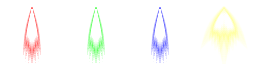
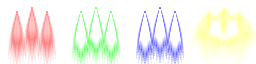
update shot image

diff --git a/assets/raw/shotbullet.html b/assets/raw/shotbullet.html
@@ -13,7 +13,7 @@ tm.main(function() {
         if (rad <= 0) return;
         canvas
             .setFillStyle(tm.graphics.RadialGradient(x,y,0,x,y,rad).addColorStopList([
-                {offset:0,color:"rgba(255,255,255,0.6)"},
+                {offset:0,color:"rgba(255,255,255,0.3)"},
                 {offset:1,color:"rgba(255,  0,  0,0.0)"},
             ]).toStyle())
             .fillRect(x-rad,y-rad,rad*2,rad*2);
@@ -40,8 +40,8 @@ tm.main(function() {
         if (rad <= 0) return;
         canvas
             .setFillStyle(tm.graphics.RadialGradient(x,y,0,x,y,rad*2).addColorStopList([
-                {offset:0.0,color:"rgba(255,255,255,0.1)"},
-                {offset:1.0,color:"rgba(255,255,  0,0.01)"},
+                {offset:0.0,color:"rgba(255,255,255,0.08)"},
+                {offset:1.0,color:"rgba(255,255,  0,0.0)"},
             ]).toStyle())
             .fillRect(x-rad,y-rad,rad*2,rad*2);
     };
@@ -52,7 +52,9 @@ tm.main(function() {
         var dir = Math.PI/2+dr;
         var r = 0;
         for (var i = 0; i < S; i++) {
+            df(x-15, y+4, r);
             df(x, y, r);
+            df(x+15, y+4, r);
             x += Math.cos(dir) * sr;
             y += Math.sin(dir) * sr;
             var j = i / S;
@@ -94,10 +96,10 @@ tm.main(function() {
 
     canvas.clear();
     d2(    0, 1.8, 16, dh);
-    d2(-0.10, 1.4, 20, dh);
-    d2( 0.10, 1.4, 20, dh);
-    d2(-0.20, 1.3, 20, dh);
-    d2( 0.20, 1.3, 20, dh);
+    d2(-0.10, 1.6, 20, dh);
+    d2( 0.10, 1.6, 20, dh);
+    d2(-0.20, 1.5, 20, dh);
+    d2( 0.20, 1.5, 20, dh);
     d2(-0.30, 1.2, 20, dh);
     d2( 0.30, 1.2, 20, dh);
     d2(-0.40, 1.1, 20, dh);
